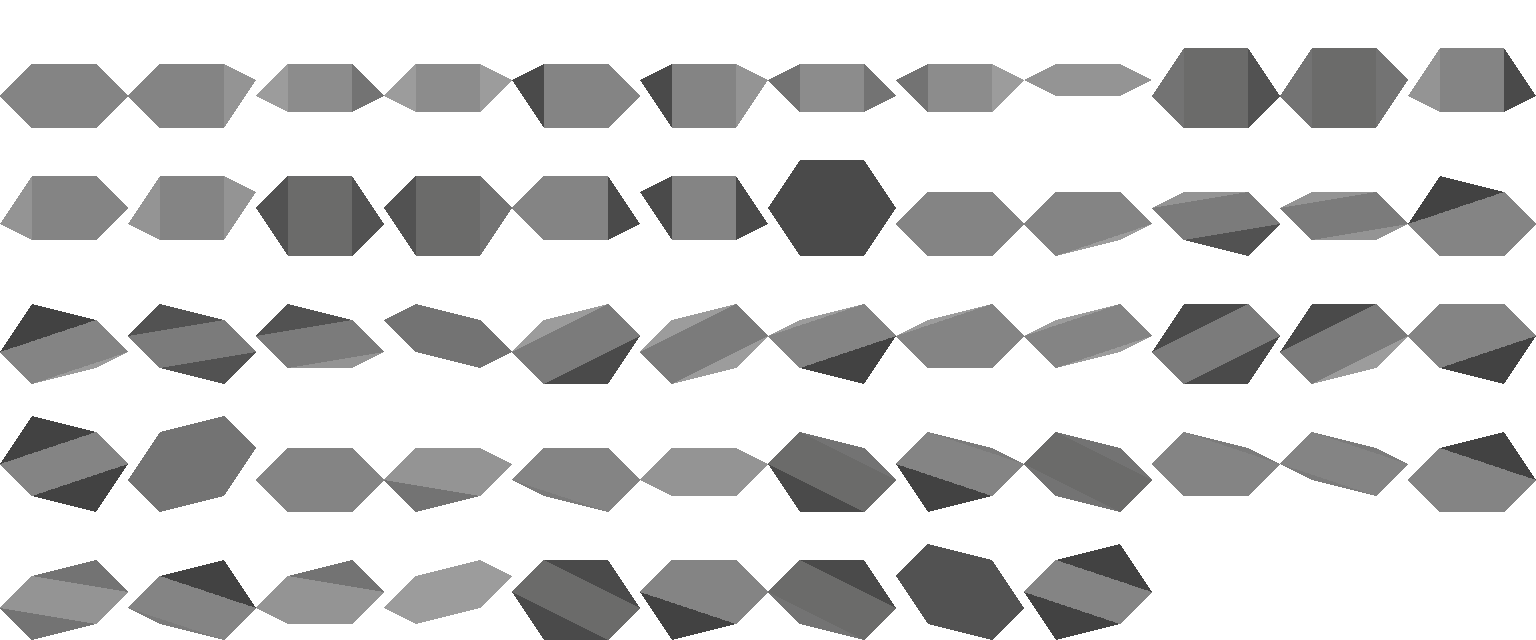
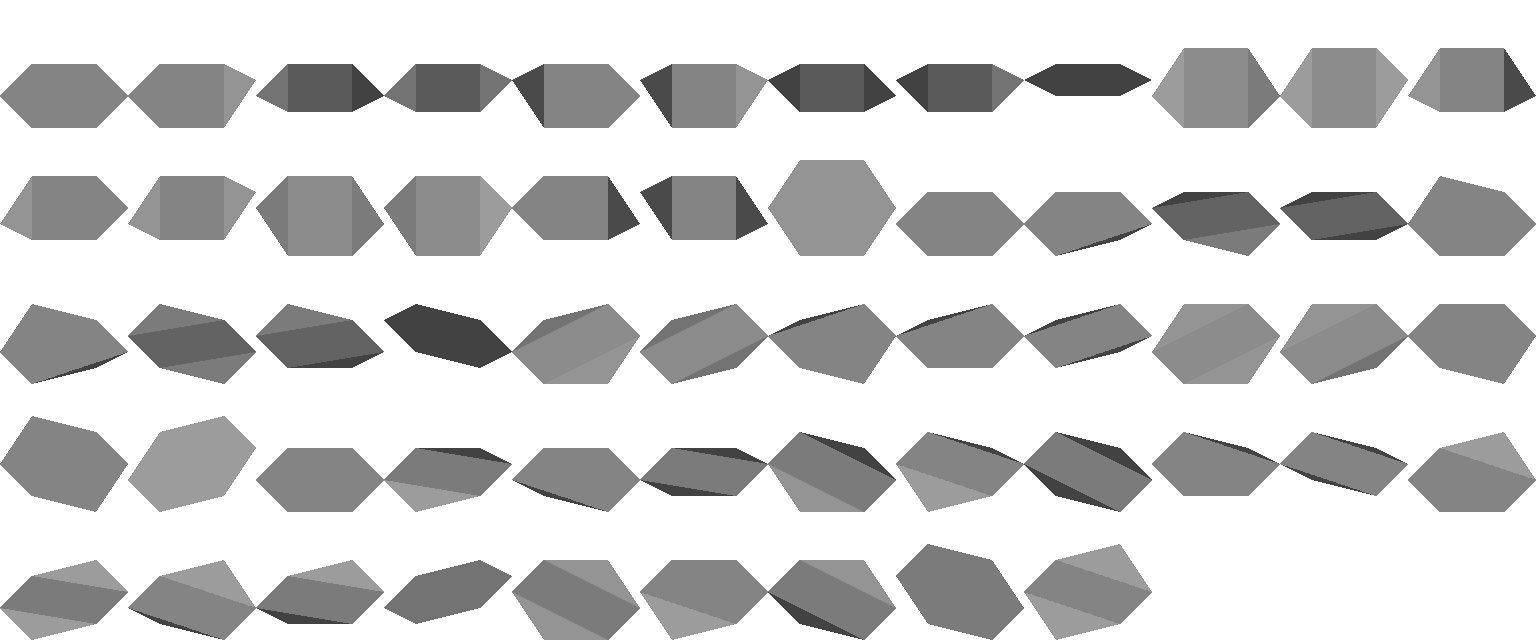
way_ground: fix lightmap shading direction; share fan-Lambert
`_face_lightmap_rgb` was feeding world coords into the same
`LIGHT=(-1,1,2)` that `region_brightness` (texture_lightmap)
calibrated in the engine's screen-projected frame (+y = south, with
the z-lift folded into y to match `world_to_screen_hex`'s
`sy = base_y - y·scale_y - z·HEX_Z_SCALE`).  World frame has
+y = north, so every tilted face on way_ground read flipped along y
vs. the matching texture_lightmap slope — south-facing ramps came
out shadowed instead of lit.  Map y the same way
`world_to_screen_hex` does before the Lambert.

With the engine Lambert frame now load-bearing across two bakers,
hoist the fan-triangle cross-product / flip-to-+z / Lambert math
into `hex_synth.face_normal_brightness(pts)`; `region_brightness`
and `_face_lightmap_rgb` become thin mappers into that frame.
`lambert_grey_rgb` lost its only caller and goes — lightmap.py
keeps the grey encoding only.

diff --git a/tools/threed/hex_synth.py b/tools/threed/hex_synth.py
@@ -781,26 +781,29 @@ def iter_region_polygons(slope: int, geom: HexGeom):
         yield region, xs, ys
 
 
-def region_brightness(region: list[int], slope: int, geom: HexGeom) -> int:
-    """Lambert brightness (256 = 1.0×) for one coplanar region from
-    its first non-degenerate triangle.  Degenerate (fully collinear)
-    regions default to flat-up.
+def face_normal_brightness(pts) -> int:
+    """Lambert brightness (256 = 1.0×) for a polygonal face given its
+    vertices in the engine's Lambert frame — the coord system `LIGHT`
+    is calibrated in, where `+x` is screen-east, `+y` is screen-south
+    with the z-lift folded in (matches `world_to_screen_hex`'s
+    `sy = base_y - y·scale_y - z·HEX_Z_SCALE`), and `+z` is the world-z
+    lift.
 
-    Shared across slope-keyed ground bakers (lightmap, sidewalk, …)
-    that paint per-region constant shade over the silhouette's
-    coplanar partition.
+    Normal taken from the first non-degenerate fan triangle off
+    `pts[0]`; flipped to `+z` before Lambert so winding doesn't
+    matter at call sites.  Fully collinear faces default to flat-up.
+
+    Two callers feed this their own coordinates:
+      * `region_brightness` builds `(geom.vx[i], lifted_vy[i],
+        ch[i]·geom.lift)` from a slope's corner indices.
+      * `way_ground._face_lightmap_rgb` builds the same triple from
+        world coords by mirroring `world_to_screen_hex`.
     """
-    ch = decode_corner_heights(slope)
-    vy = geom.lifted_vy(slope)
-    i0 = region[0]
-    for k in range(2, len(region)):
-        i1, i2 = region[k - 1], region[k]
-        ax = geom.vx[i1] - geom.vx[i0]
-        ay = vy[i1] - vy[i0]
-        az = (ch[i1] - ch[i0]) * geom.lift
-        bx = geom.vx[i2] - geom.vx[i0]
-        by = vy[i2] - vy[i0]
-        bz = (ch[i2] - ch[i0]) * geom.lift
+    p0 = pts[0]
+    for k in range(2, len(pts)):
+        p1, p2 = pts[k - 1], pts[k]
+        ax, ay, az = p1[0] - p0[0], p1[1] - p0[1], p1[2] - p0[2]
+        bx, by, bz = p2[0] - p0[0], p2[1] - p0[1], p2[2] - p0[2]
         nx = ay * bz - az * by
         ny = az * bx - ax * bz
         nz = ax * by - ay * bx
@@ -810,6 +813,19 @@ def region_brightness(region: list[int], slope: int, geom: HexGeom) -> int:
             nx, ny, nz = -nx, -ny, -nz
         return lambert_brightness(nx, ny, nz)
     return lambert_brightness(0.0, 0.0, 1.0)
+
+
+def region_brightness(region: list[int], slope: int, geom: HexGeom) -> int:
+    """Lambert brightness (256 = 1.0×) for one coplanar region.
+
+    Shared across slope-keyed ground bakers (lightmap, sidewalk, …)
+    that paint per-region constant shade over the silhouette's
+    coplanar partition.
+    """
+    ch = decode_corner_heights(slope)
+    vy = geom.lifted_vy(slope)
+    pts = [(geom.vx[i], vy[i], ch[i] * geom.lift) for i in region]
+    return face_normal_brightness(pts)
 
 
 def silhouette_mask(slope: int, geom: HexGeom) -> np.ndarray:

diff --git a/landscape/grounds/way_ground/build_pakset.py b/landscape/grounds/way_ground/build_pakset.py
@@ -42,7 +42,7 @@ from pathlib import Path
 import numpy as np
 
 from tools.threed import hex_synth
-from tools.threed.lightmap import lambert_grey_rgb
+from tools.threed.lightmap import brightness_to_grey_rgb
 from tools.threed.render import (
     HEX_Z_SCALE,
     HexCamera,
@@ -55,32 +55,23 @@ from tools.threed.way import HEX_TILE_RADIUS
 
 def _face_lightmap_rgb(face_pts_world,
                        geom: hex_synth.HexGeom) -> tuple[int, int, int]:
-    """Lambert grey for one face under hex_synth's `LIGHT`, encoded for
-    `create_textured_tile`.  World coords are mapped into the same
-    pixel-space scaling `world_to_screen_hex` uses (and
-    `region_brightness` mirrors for `texture_lightmap`), so a flat-up
-    face here produces the same grey as a flat ground tile — a flat
+    """Lambert grey for one face given its vertices in world coords
+    (`+x = east`, `+y = north`, `+z = up`).  Maps each point into the
+    engine's Lambert frame the same way `world_to_screen_hex` does
+    (`sy = base_y - y·scale_y - z·HEX_Z_SCALE`), then defers to
+    `hex_synth.face_normal_brightness` so the cross-product / flip
+    / Lambert convention stays in lockstep with `region_brightness`.
+    Flat-up faces produce `(0, 0, 1)` in this frame, so a flat
     way_ground slot is bit-identical to the flat-slope
     `texture_lightmap` slot once climate-composited.
     """
     scale_x = geom.w / (2.0 * HEX_TILE_RADIUS)
     scale_y = geom.w / (2.0 * HEX_TILE_RADIUS * math.sqrt(3.0))
-    p = [(x * scale_x, y * scale_y, z * HEX_Z_SCALE)
-         for x, y, z in face_pts_world]
-    p0 = p[0]
-    for k in range(2, len(p)):
-        p1, p2 = p[k - 1], p[k]
-        ax, ay, az = p1[0] - p0[0], p1[1] - p0[1], p1[2] - p0[2]
-        bx, by, bz = p2[0] - p0[0], p2[1] - p0[1], p2[2] - p0[2]
-        nx = ay * bz - az * by
-        ny = az * bx - ax * bz
-        nz = ax * by - ay * bx
-        if nx == 0.0 and ny == 0.0 and nz == 0.0:
-            continue
-        if nz < 0.0:
-            nx, ny, nz = -nx, -ny, -nz
-        return lambert_grey_rgb(nx, ny, nz)
-    return lambert_grey_rgb(0.0, 0.0, 1.0)
+    pts = [(x * scale_x,
+            -y * scale_y - z * HEX_Z_SCALE,
+            z * HEX_Z_SCALE)
+           for x, y, z in face_pts_world]
+    return brightness_to_grey_rgb(hex_synth.face_normal_brightness(pts))
 
 
 def _validate_axis_geometry() -> None:

diff --git a/tools/threed/lightmap.py b/tools/threed/lightmap.py
@@ -11,16 +11,15 @@ into the matching climate-texture 5-bit channel divided by 16:
 So `grey5 == 16` is the identity multiplier (~1.0×), `grey5 == 0`
 black-outs the pixel, `grey5 == 31` is the brightest peak.
 
-This module owns the encoding: `lambert_grey_rgb(nx, ny, nz)` is the
-canonical per-region/per-face Lambert helper that ground bakers
-(texture_lightmap) and bespoke-geometry bakers (way_ground) both feed
-their face normals through.  Keeping it here means
-`brightness_to_grey_rgb`'s rounding convention and the reserved-palette
-dodge live in one place.
+This module owns the grey encoding.  Lambert math (face normal →
+brightness) lives in `hex_synth`: ground bakers route through
+`region_brightness` and bespoke-geometry bakers route through
+`face_normal_brightness`, then both pass the resulting brightness
+through `brightness_to_grey_rgb` here.  Keeping the encoding in one
+place means the rounding convention and the reserved-palette dodge
+stay in lockstep.
 """
 from __future__ import annotations
-
-from .hex_synth import lambert_brightness
 
 
 # Engine reserved palette (engine `descriptor/image.cc::rgbtab`).  Any
@@ -77,12 +76,3 @@ def brightness_to_grey_rgb(brightness: int) -> tuple[int, int, int]:
     gray5 = max(0, min(brightness // 16, 31))
     gray8 = (gray5 * 255 + 15) // 31
     return safe_face_rgb(gray8)
-
-
-def lambert_grey_rgb(nx: float, ny: float, nz: float) -> tuple[int, int, int]:
-    """One-shot helper: Lambert brightness from an `(nx, ny, nz)` normal
-    (using `hex_synth.LIGHT`), encoded as a grey RGB triple ready to
-    rasterise.  The normal need not be unit-length —
-    `lambert_brightness` normalises internally.
-    """
-    return brightness_to_grey_rgb(lambert_brightness(nx, ny, nz))
